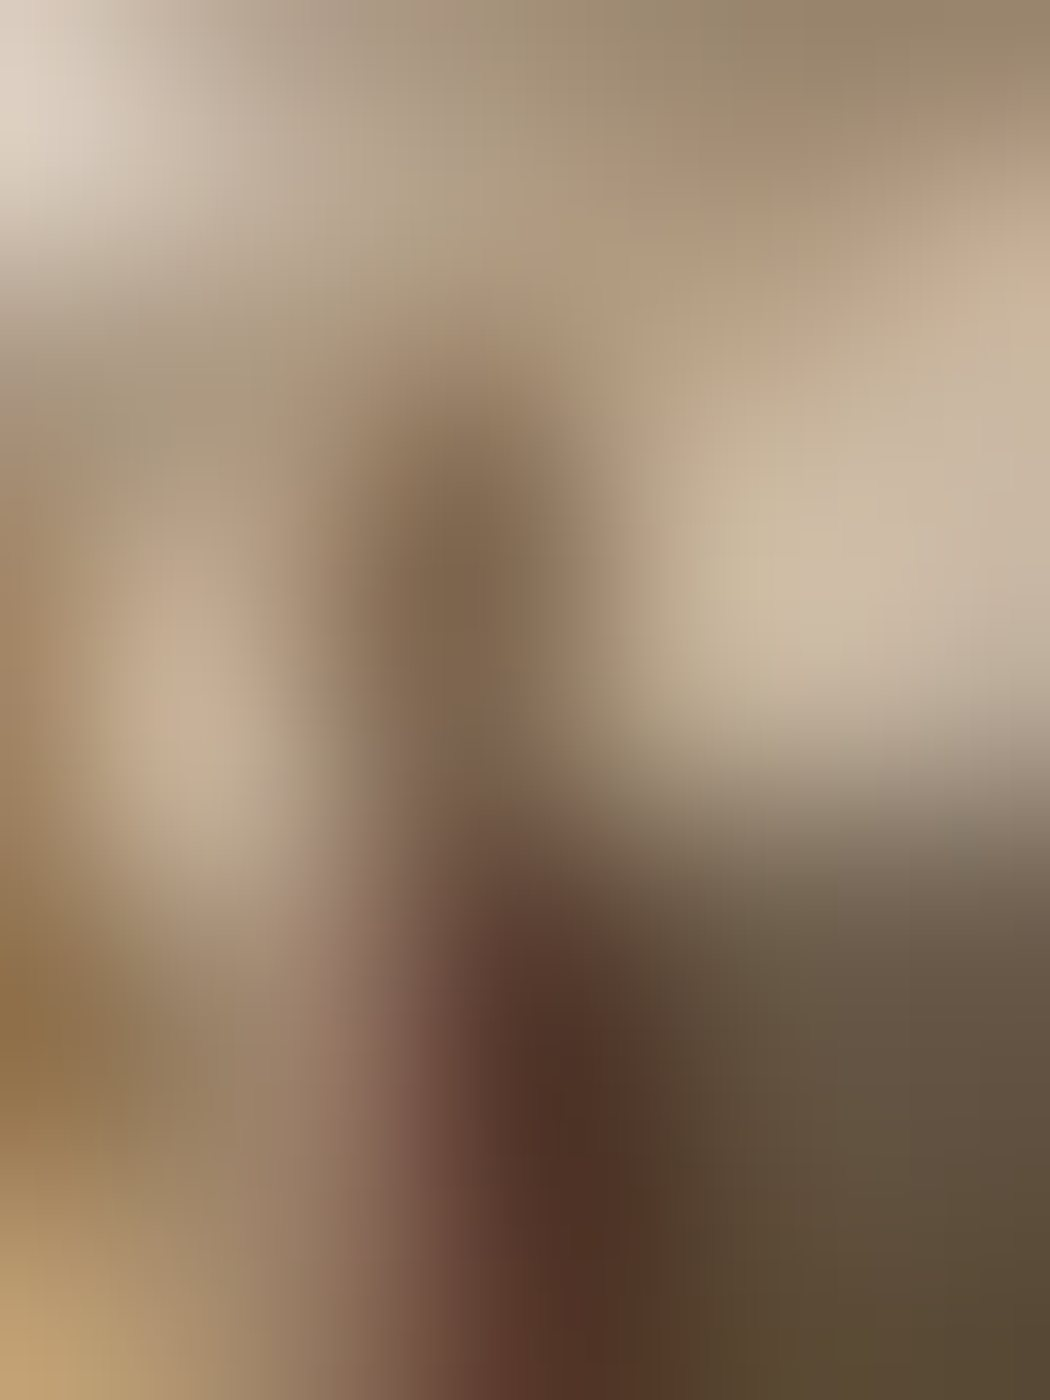
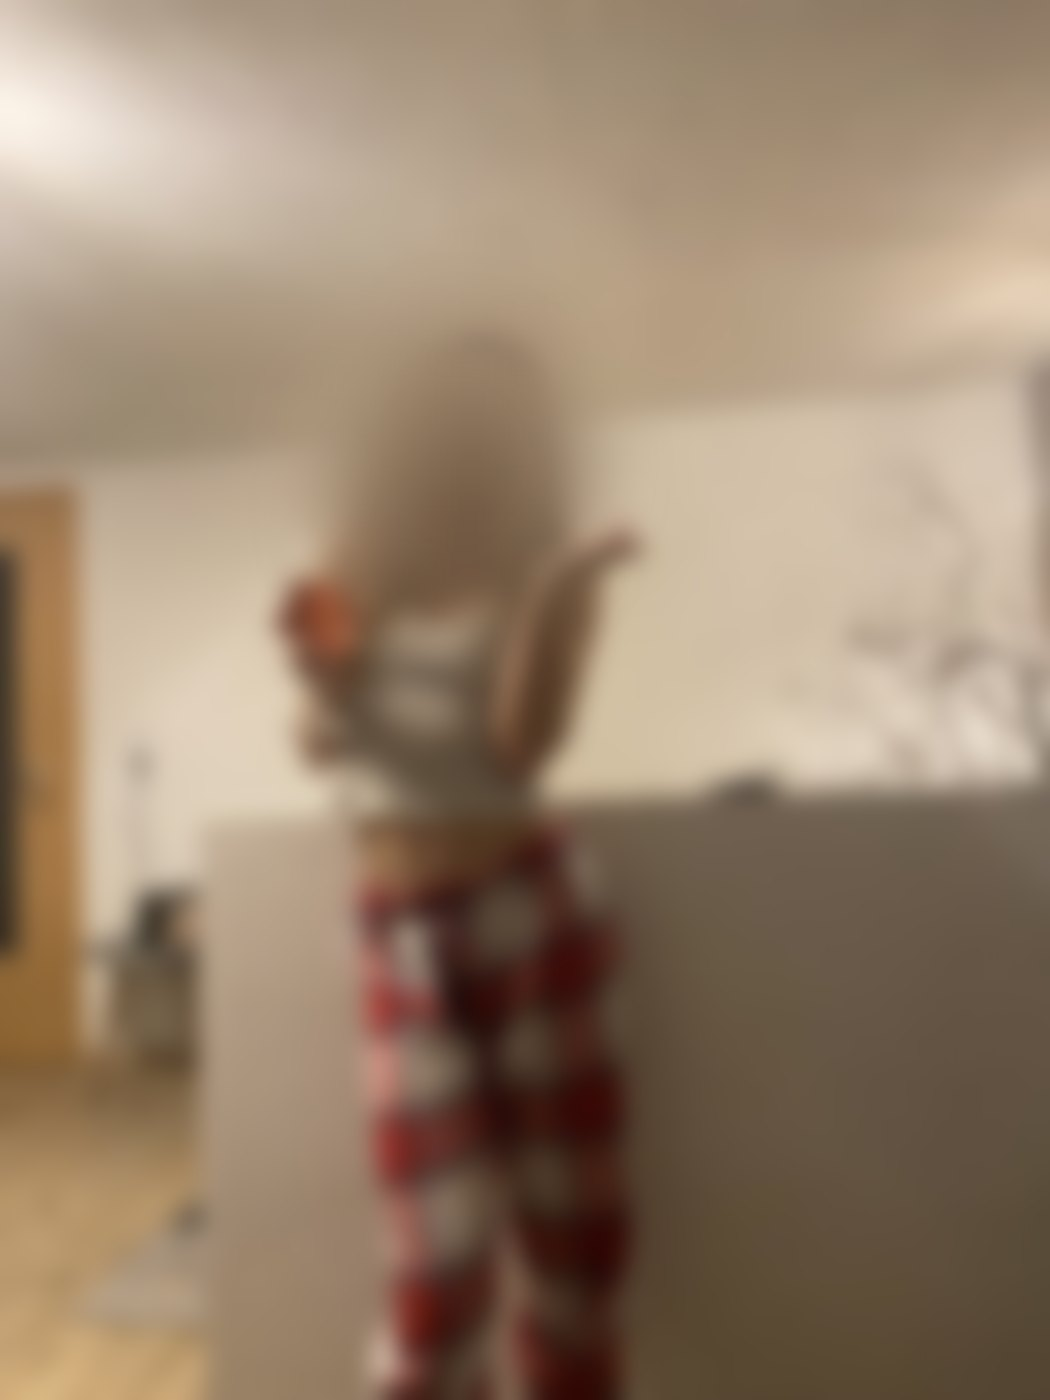
Simplify TDL header and adjust photo blur

diff --git a/index.html b/index.html
@@ -78,7 +78,7 @@
         </div>
       </a>
       <a class="area" href="rezepte/">
-        <img class="area-recipe-image" src="assets/startseite-leckkerding-unscharf.jpg" alt="">
+        <img class="area-recipe-image" src="assets/startseite-leckkerding-unscharf.jpg?v=2" alt="">
         <div class="area-content">
           <h3>Leckkerding</h3>
         </div>

diff --git a/2026.html b/2026.html
@@ -19,8 +19,7 @@
 </head>
 <body>
   <header class="site-header">
-    <h1>25 Jahre TDL</h1>
-    <p class="subtitle">Jubiläumsseite – alles Wichtige an einem Ort</p>
+    <h1>TDL</h1>
   </header>
 
   <nav class="site-nav" aria-label="Hauptnavigation">

diff --git a/2027.html b/2027.html
@@ -19,8 +19,7 @@
 </head>
 <body>
   <header class="site-header">
-    <h1>25 Jahre TDL</h1>
-    <p class="subtitle">Jubiläumsseite – alles Wichtige an einem Ort</p>
+    <h1>TDL</h1>
   </header>
 
   <nav class="site-nav" aria-label="Hauptnavigation">

diff --git a/historie.html b/historie.html
@@ -19,8 +19,7 @@
 </head>
 <body>
   <header class="site-header">
-    <h1>25 Jahre TDL</h1>
-    <p class="subtitle">Jubiläumsseite – alles Wichtige an einem Ort</p>
+    <h1>TDL</h1>
   </header>
 
   <nav class="site-nav" aria-label="Hauptnavigation">

diff --git a/links.html b/links.html
@@ -18,8 +18,7 @@
 </head>
 <body>
   <header class="site-header">
-    <h1>25 Jahre TDL</h1>
-    <p class="subtitle">Jubiläumsseite – alles Wichtige an einem Ort</p>
+    <h1>TDL</h1>
   </header>
 
   <nav class="site-nav" aria-label="Hauptnavigation">

diff --git a/news.html b/news.html
@@ -30,8 +30,7 @@
 </head>
 <body>
   <header class="site-header">
-    <h1>25 Jahre TDL</h1>
-    <p class="subtitle">Jubiläumsseite – alles Wichtige an einem Ort</p>
+    <h1>TDL</h1>
   </header>
 
   <nav class="site-nav" aria-label="Hauptnavigation">
